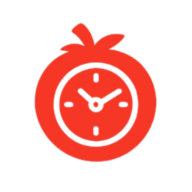
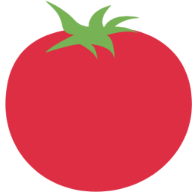
Alteração no layout da aplicação

diff --git a/styles.css b/styles.css
@@ -1,31 +1,31 @@
 :root {
-    --color-primary: #ff6347;
+    --color-primary: #EF4444;
     --color-secondary: #FFF;
-    --azul-royal: #ff6347;
-    --fundo-card-timer: rgba(240, 248, 255, 0.181);
-    --lils: #ff6347;
-    --linear-botes: linear-gradient(180deg, #ff6347 0%, #ddaaa1 100%);
+    --red: #EF4444;
+    --fundo-card-timer:  rgba(68, 62, 62, 0.8);
+    --lils: #EF4444;
+    --linear-botes: linear-gradient(180deg, #EF4444 0%, #ddaaa1 100%);
 }
 
 [data-contexto="foco"] {
-    --main-bg-color: linear-gradient(180deg, #ff6347 0%, #462019 48.44%, #01080E 100%);
-    --azul-royal: #ff6347;
-    --lils: #ff6347;
-    --linear-botes: linear-gradient(180deg, #ff6347 0%, #ddaaa1 100%);
+    --main-bg-color: linear-gradient(to top, #EF4444 0%, #991B1B 48.44%, #01080E 100%);
+    --red: #EF4444;
+    --lils: #EF4444;
+    --linear-botes: #EF4444;
 }
 
 [data-contexto="descanso-curto"] {
-    --main-bg-color: linear-gradient(180deg, #0F725C 0%, #041832 48.44%, #01080E 100%);
-    --azul-royal: #0F725C;
+    --main-bg-color: linear-gradient(to top, #0F725C 0%, #043220 48.44%, #01080E 100%);
+    --red: #0F725C;
     --lils: #0F725C;
-    --linear-botes: linear-gradient(180deg, #0F725C 0%, #ddaaa1 100%);
+    --linear-botes: #0F725C;
 }
 
 [data-contexto="descanso-longo"] {
-    --main-bg-color: linear-gradient(180deg, #1875E9 0%, #041832 48.44%, #01080E 100%);
-    --azul-royal: #1875E9;
-    --lils: #1875E9;
-    --linear-botes: linear-gradient(180deg, #1875E9 0%, #ddaaa1 100%);
+    --main-bg-color: linear-gradient(to top, #1A4980 0%, #0D2B4E 48.44%, #01080E 100%);
+    --red: #2563EB;
+    --lils: #2563EB;
+    --linear-botes: #2563EB;
 }
 
 * {
@@ -47,6 +47,8 @@ html {
     padding-bottom: env(safe-area-inset-bottom);
     background-position: center;
     background-attachment: fixed;
+    display: flex;
+    flex-direction: column;
 }
 
 h1, h2, h3, h4, h5, h6 {
@@ -56,12 +58,13 @@ h1, h2, h3, h4, h5, h6 {
 .app__logo-figure {
     display: flex;
     justify-content: center;
-    padding: 2rem 0;
+    padding: 5rem 0 2rem 0;
     height: 20rem;
 }
 
 .app__section-banner-container {
     display: flex;
+    flex-direction: column;
     justify-content: center;
     align-items: center;
     flex-wrap: wrap;
@@ -70,7 +73,7 @@ h1, h2, h3, h4, h5, h6 {
 
 .app__title {
     line-height: 150%;
-    font-size: 5.2rem;
+    font-size: 4.2rem;
     font-style: normal;
     color: var(--color-secondary);
     font-weight: 200; 
@@ -81,6 +84,11 @@ h1, h2, h3, h4, h5, h6 {
     font-weight: 600;
 }
 
+.title-icon {
+    width: 4rem;
+    height: 4rem;
+}
+
 .app__section-card-container {
     display: flex;
     justify-content: center;
@@ -88,12 +96,16 @@ h1, h2, h3, h4, h5, h6 {
 
 .app__card {
     border-radius: 3.2rem;
-    border: 0.2rem solid var(--azul-royal);
     background: var(--fundo-card-timer);
     padding: 2.4rem;
-    margin: 8rem 0;
+    margin: 5rem 0 8rem 0;
     width: 59rem;
     max-width: 90%;
+    box-shadow:
+    0 4px 6px rgba(0, 0, 0, 0.1),
+    0 8px 10px rgba(0, 0, 0, 0.1),
+    0 12px 16px rgba(0, 0, 0, 0.1),
+    0 16px 24px rgba(0, 0, 0, 0.1);
 }
 
 .app__card-list {
@@ -122,7 +134,7 @@ h1, h2, h3, h4, h5, h6 {
 
 .app__card-button.active {
     border-radius: 0.8rem;
-    background: var(--azul-royal);
+    background: var(--red);
     font-weight: 600;
 }
 
@@ -252,30 +264,59 @@ h1, h2, h3, h4, h5, h6 {
 }
 
 /* Para Celulares */
-@media (max-width: 767px) {
-
-    .app__section-banner-container {
-        display: block;
-        width: 40rem;
-    }
+@media (max-width: 768px) {
 
     .app__title {
-        padding: 0 1em;
-        font-size: 2.6rem;
+        padding-bottom: 3rem;
+        font-size: 2rem;
     }
 
     .app__card-timer {
-        font-size: 6rem;
+        font-size: 5rem;
+        margin: 2rem;
+    }
+
+    .title-icon {
+        width: 2rem;
+        height: 2rem;
+    }
+
+    .app__card{
+        margin-top: 0;
+        margin-bottom: 5rem;
+        padding: 3rem;
     }
 
     .app__logo-figure{
         margin-top: 0em;
         padding: 0;
         align-items: center;
+        justify-content: center;
     }
 
     .app__logo-image {
-        height: 15em;
+        max-height: 10rem;
+    }
+
+    .app__card-button {
+        font-size: 1.6rem;
+        padding: 0.8rem;
+    }
+
+    .app__header {
+        order: 0;
+    }
+
+    .app__section-banner-container {
+        order: 2;
+    }
+
+    .app__section-card-container {
+        order: 1;
+    }
+
+    .app__footer {
+        order: 3;
     }
 
 }

diff --git a/index.html b/index.html
@@ -5,7 +5,10 @@
     <meta charset="UTF-8">
     <meta name="viewport" content="width=device-width, initial-scale=1, viewport-fit=cover">
     <title>PomoClock</title>
-    <link rel="icon" type="image/png" sizes="32x32" href="./imagens/favicon-32x32.png">
+    <link rel="apple-touch-icon" sizes="180x180" href="imagens/apple-touch-icon.png">
+    <link rel="icon" type="image/png" sizes="32x32" href="imagens/favicon-32x32.png">
+    <link rel="icon" type="image/png" sizes="16x16" href="imagens/favicon-16x16.png">
+    <link rel="manifest" href="imagens/site.webmanifest">  
     <link rel="stylesheet" href="https://cdnjs.cloudflare.com/ajax/libs/meyer-reset/2.0/reset.min.css"
         integrity="sha512-NmLkDIU1C/C88wi324HBc+S2kLhi08PN5GDeUVVVC/BVt/9Izdsc9SVeVfA1UZbY3sHUlDSyRXhCzHfr6hmPPw=="
         crossorigin="anonymous" referrerpolicy="no-referrer" />
@@ -22,7 +25,7 @@
     <main class="app">
         <header class="app__header">
             <figure class="app__logo-figure">
-                <img class="app__logo-image" src="/imagens/pomoclock.png" alt="">
+                <img class="app__logo-image" src="/imagens/pomoclock.svg" alt="">
             </figure>
         </header>
         <section class="app__section-banner-container">

diff --git a/script.js b/script.js
@@ -14,6 +14,7 @@ const beepAudio = new Audio('/sons/beep.mp3');
 const textStartPauseBt = document.querySelector('#start-pause > span');
 const tempoNaTela = document.querySelector('#timer');
 const startPauseImg = document.querySelector('.app__card-primary-butto-icon')
+const imagem = document.querySelector('.app__logo-image');
 
 let tempoDecorridoEmSegundos = 1500
 let intervaloId = null 
@@ -67,7 +68,7 @@ function alterarContexto(contexto) {
             break;
         case "descanso-longo":
             titulo.innerHTML = `
-            Hora do cafézinho ☕<br>
+            Hora do cafézinho <img src="/imagens/cup.svg" class="title-icon"><br>
                 <strong class="app__title-strong">Faça uma pausa longa.</strong>
             `
             break;
